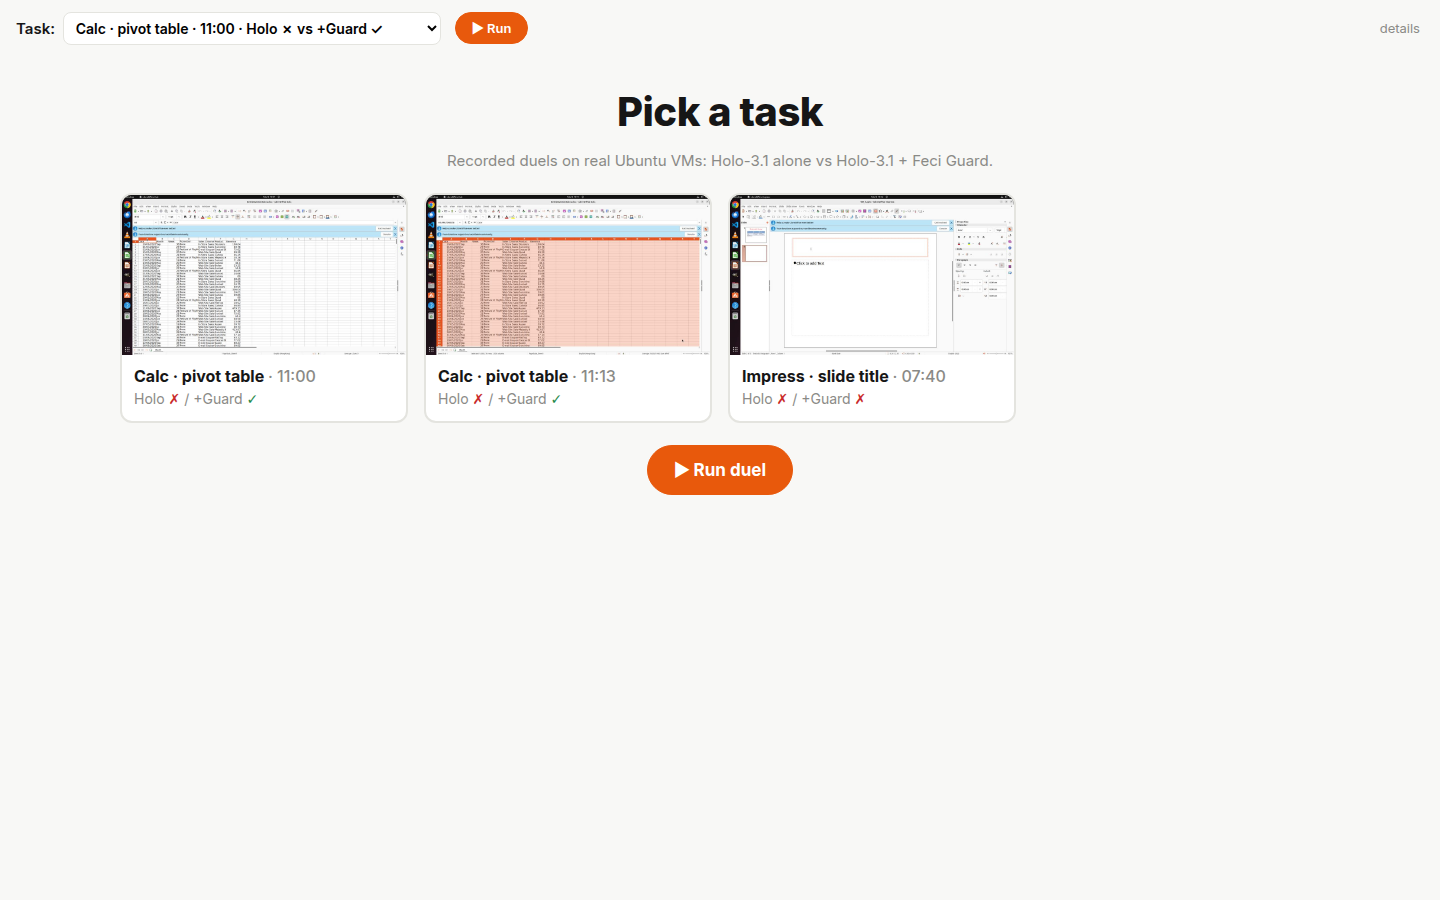
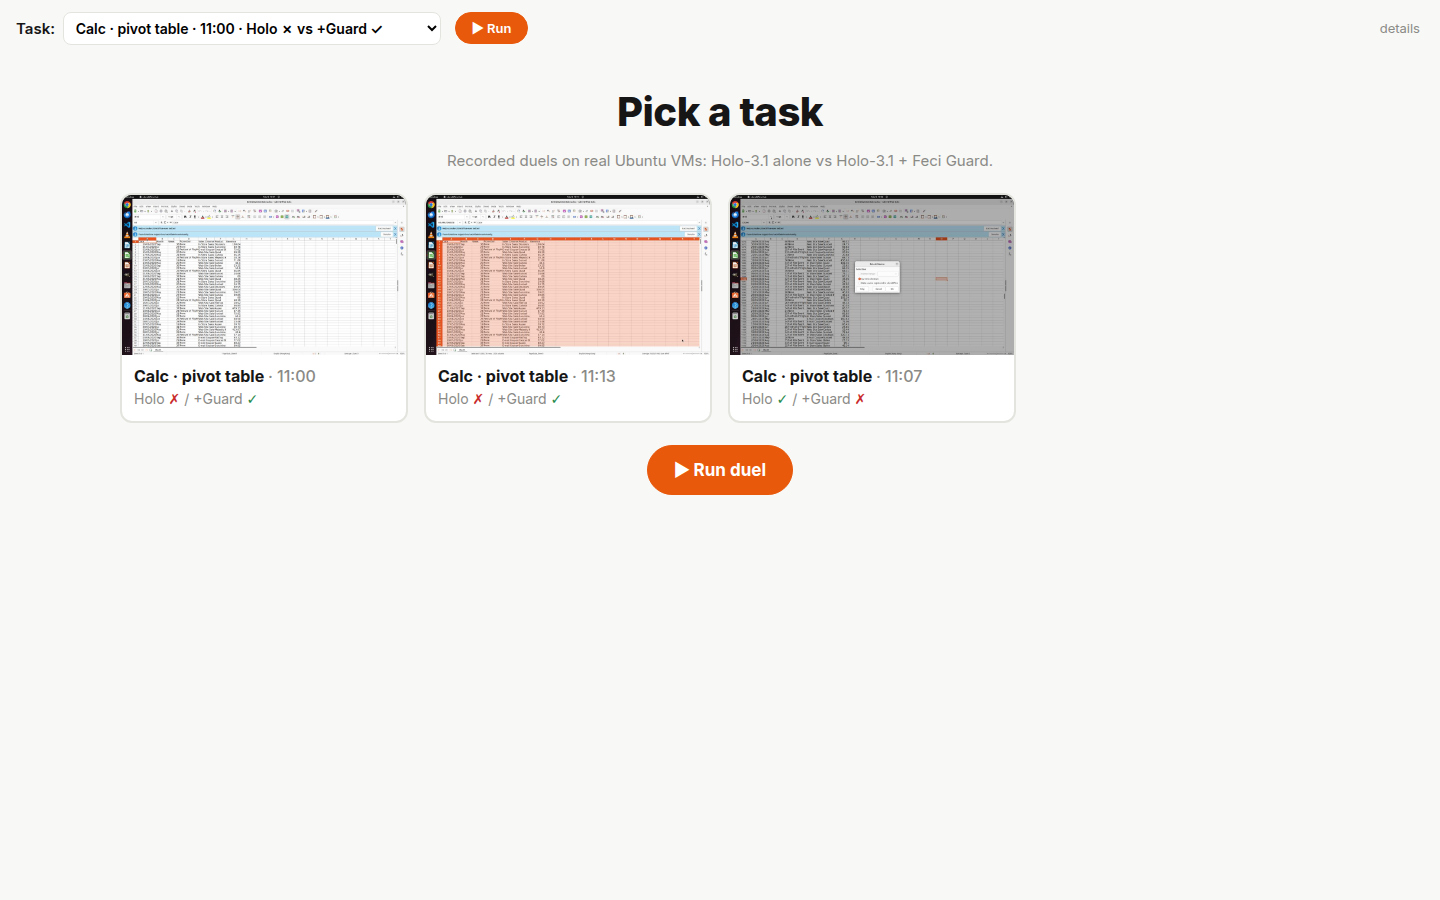
holo-neurochir duel: landing cards R1, R3, R2 (all with the current frozen verifier, R2 a Guard loss)

Changed region(s): [[0.5, 0.2178, 0.7188, 0.4356]]

diff --git a/holo-neurochir/osworld/duel/index.html b/holo-neurochir/osworld/duel/index.html
@@ -255,7 +255,7 @@ const stop = side => duelId && post('/api/stop', { duel: duelId, side });
 const REAL = P.get('mode') === 'real';  // realistic: x1 from the VM boot on, with the recorded latencies
 const R = { ev: [], i: 0, clock: 0, last: null, speed: REAL ? 1 : 4 };
 const CARDS = ['20261108-110023_libreoffice_calc_1de60575-bb6e-4c3d-9e6a', '20261108-111313_libreoffice_calc_1de60575-bb6e-4c3d-9e6a',
-  '20261108-074039_libreoffice_impress_b8adbc24-cef2-4b15-9'];  // landing cards: Holo-3.1 alone vs + Feci Guard only
+  '20261108-110716_libreoffice_calc_1de60575-bb6e-4c3d-9e6a'];  // landing cards: Holo-3.1 alone vs + Feci Guard only
 const FEATURED = '20261108-110023_libreoffice_calc_1de60575-bb6e-4c3d-9e6a';  // R1: Guard refuses a false "done", agent repairs
 async function loadReplay() {
   const r = await fetch(`/api/events?duel=${REPLAY}&left=0&right=0`), d = await r.json();
